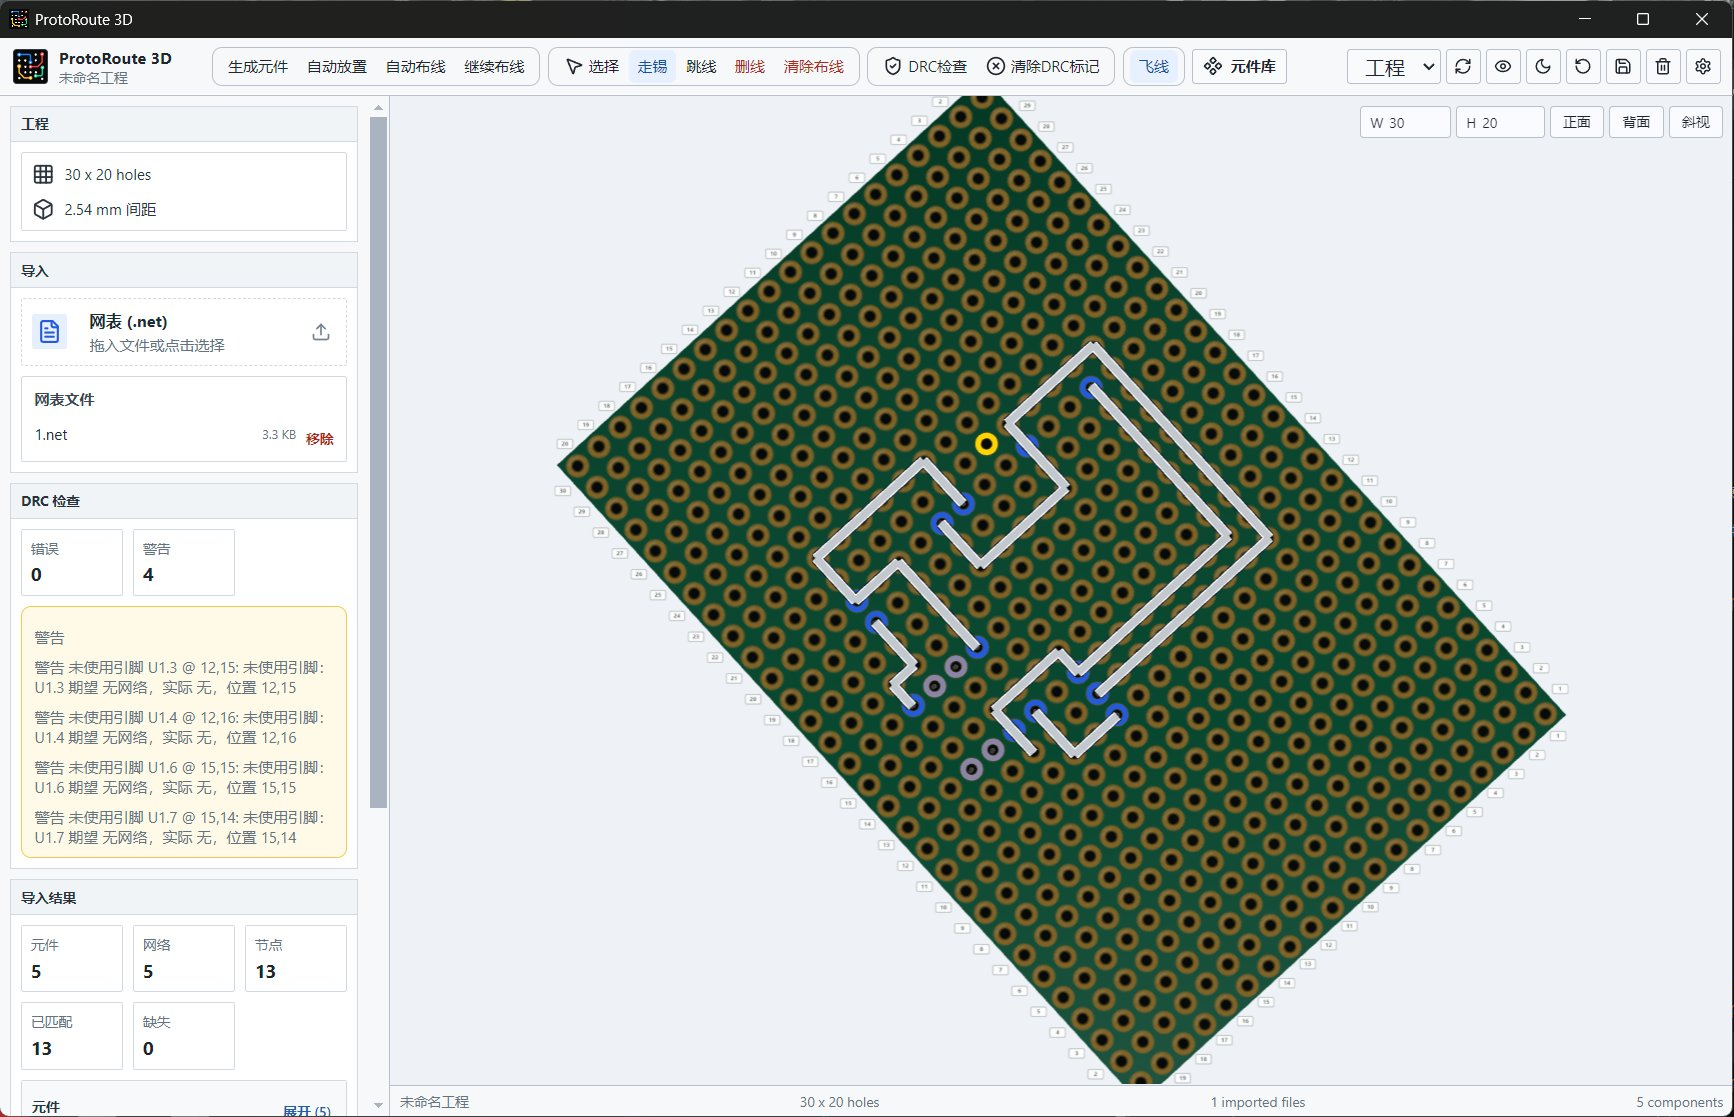
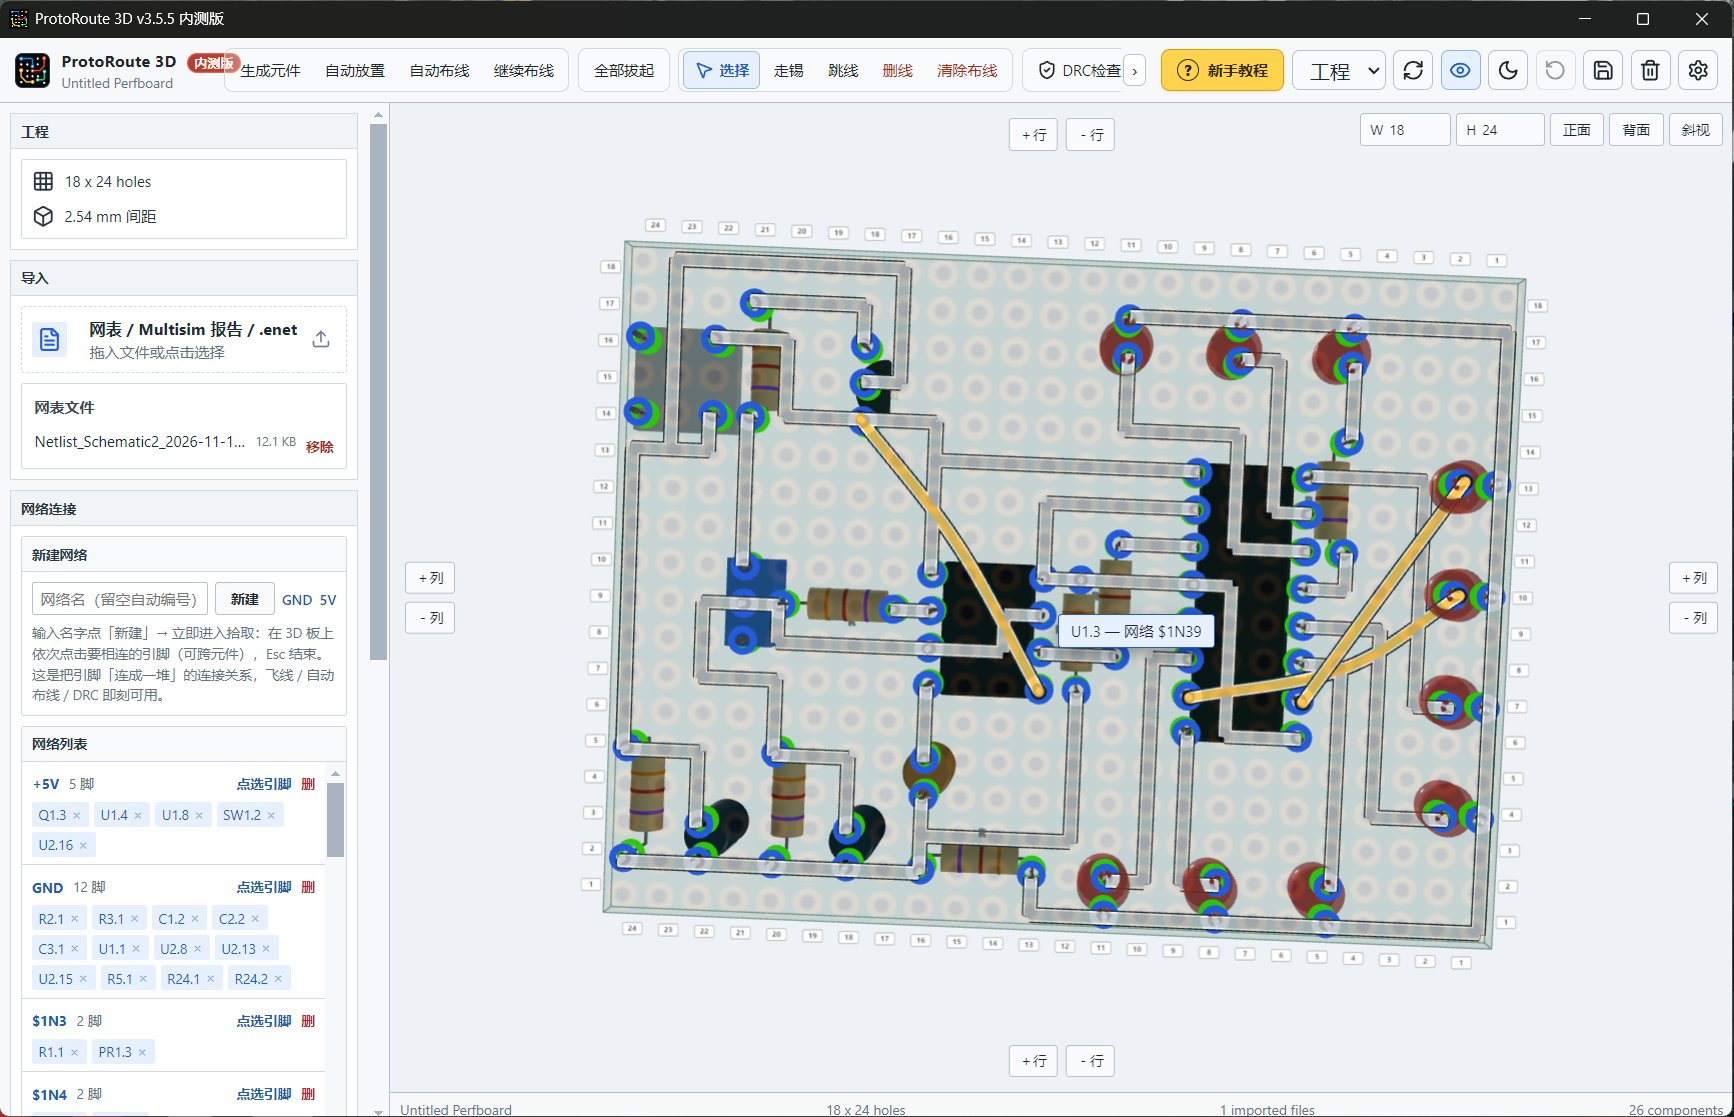
更新 README 界面截图并校正图片说明

diff --git a/README.md b/README.md
@@ -37,9 +37,9 @@
 
 它适合教学实验、模块板、转接板和中小规模自制电路；**不适合代替专业 PCB 软件设计多层板、高速或大电流电路。**
 
-| 实体视图 | 透视视图 |
+| 布线俯视图 | 3D 元件视图 |
 |---|---|
-| ![实体视图](docs/screenshots/board-solid.jpg) | ![透视视图](docs/screenshots/board-xray.jpg) |
+| ![布线俯视图](docs/screenshots/board-solid.jpg) | ![3D 元件视图](docs/screenshots/board-xray.jpg) |
 
 ## 3. 如何安装
 
